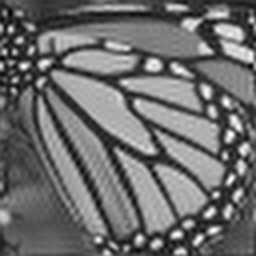
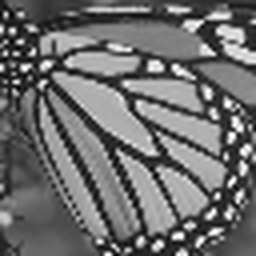
hyperparams

diff --git a/problem1.py b/problem1.py
@@ -15,11 +15,7 @@ import time
 
 # MSE, PSNR definition
 def MSE(image_gt, image_h, width, height):
-    difference_square = 0
-    for i in range(height):
-        for j in range(width):
-            temp = image_gt[i][j] - image_h[i][j]
-            difference_square += np.square(temp)
+    difference_square = np.sum(np.square(image_gt-image_h))
     return np.divide(difference_square, height*width)
 
 def PSNR(image_gt, mse):
@@ -41,7 +37,7 @@ I_gt = cv2.cvtColor(I_gt, cv2.COLOR_BGR2GRAY)
 
 # define low resolution image input
 # which refers to bilinear downsampling(I_h)
-I_l = cv2.resize(I_h, (height//4, width//4), interpolation = cv2.INTER_LINEAR)
+I_l = cv2.resize(I_gt, (height//4, width//4), interpolation = cv2.INTER_LINEAR)
 
 # Display before image MSE, PSNR value
 mse = MSE(I_gt, I_h, width, height)
@@ -56,7 +52,7 @@ print("PSNR value: ", psnr)
 # define the max iteration count
 MAX_ITER = 10000
 counter = 0
-alpha = 0.03
+alpha = 1.8
 for counter in tqdm(range(0, MAX_ITER)):
     counter += 1
     
@@ -65,7 +61,7 @@ for counter in tqdm(range(0, MAX_ITER)):
     grad = cv2.resize(difference, (height, width))
 
     # Update the value
-    I_h = I_h - alpha*grad
+    I_h = np.subtract(I_h, np.multiply(alpha, grad))
 
 #---------------------------------------------------------------------------------#
 

diff --git a/problem2.py b/problem2.py
@@ -15,11 +15,7 @@ import time
 
 # MSE, PSNR definition
 def MSE(image_gt, image_h, width, height):
-    difference_square = 0
-    for i in range(height):
-        for j in range(width):
-            temp = image_gt[i][j] - image_h[i][j]
-            difference_square += np.square(temp)
+    difference_square = np.sum(np.square(image_gt-image_h))
     return np.divide(difference_square, height*width)
 
 def PSNR(image_gt, mse):
@@ -41,7 +37,7 @@ I_gt = cv2.cvtColor(I_gt, cv2.COLOR_BGR2GRAY)
 
 # define low resolution image input
 # which refers to bilinear downsampling(I_h)
-I_l = cv2.resize(I_h, (height//4, width//4), interpolation = cv2.INTER_LINEAR)
+I_l = cv2.resize(I_gt, (height//4, width//4), interpolation = cv2.INTER_LINEAR)
 
 # Display before image MSE, PSNR value
 mse = MSE(I_gt, I_h, width, height)
@@ -75,7 +71,7 @@ grad_prior = Gamma*laplacian*np.divide(G_t, G_lu)
 
 # Iteration part (gradient descent)
 # Define beta(hyperparameter) and iteration time
-Alpha = 0.03
+Alpha = 1.3
 Beta = 0.001
 MAX_ITER = 10000
 counter = 0
